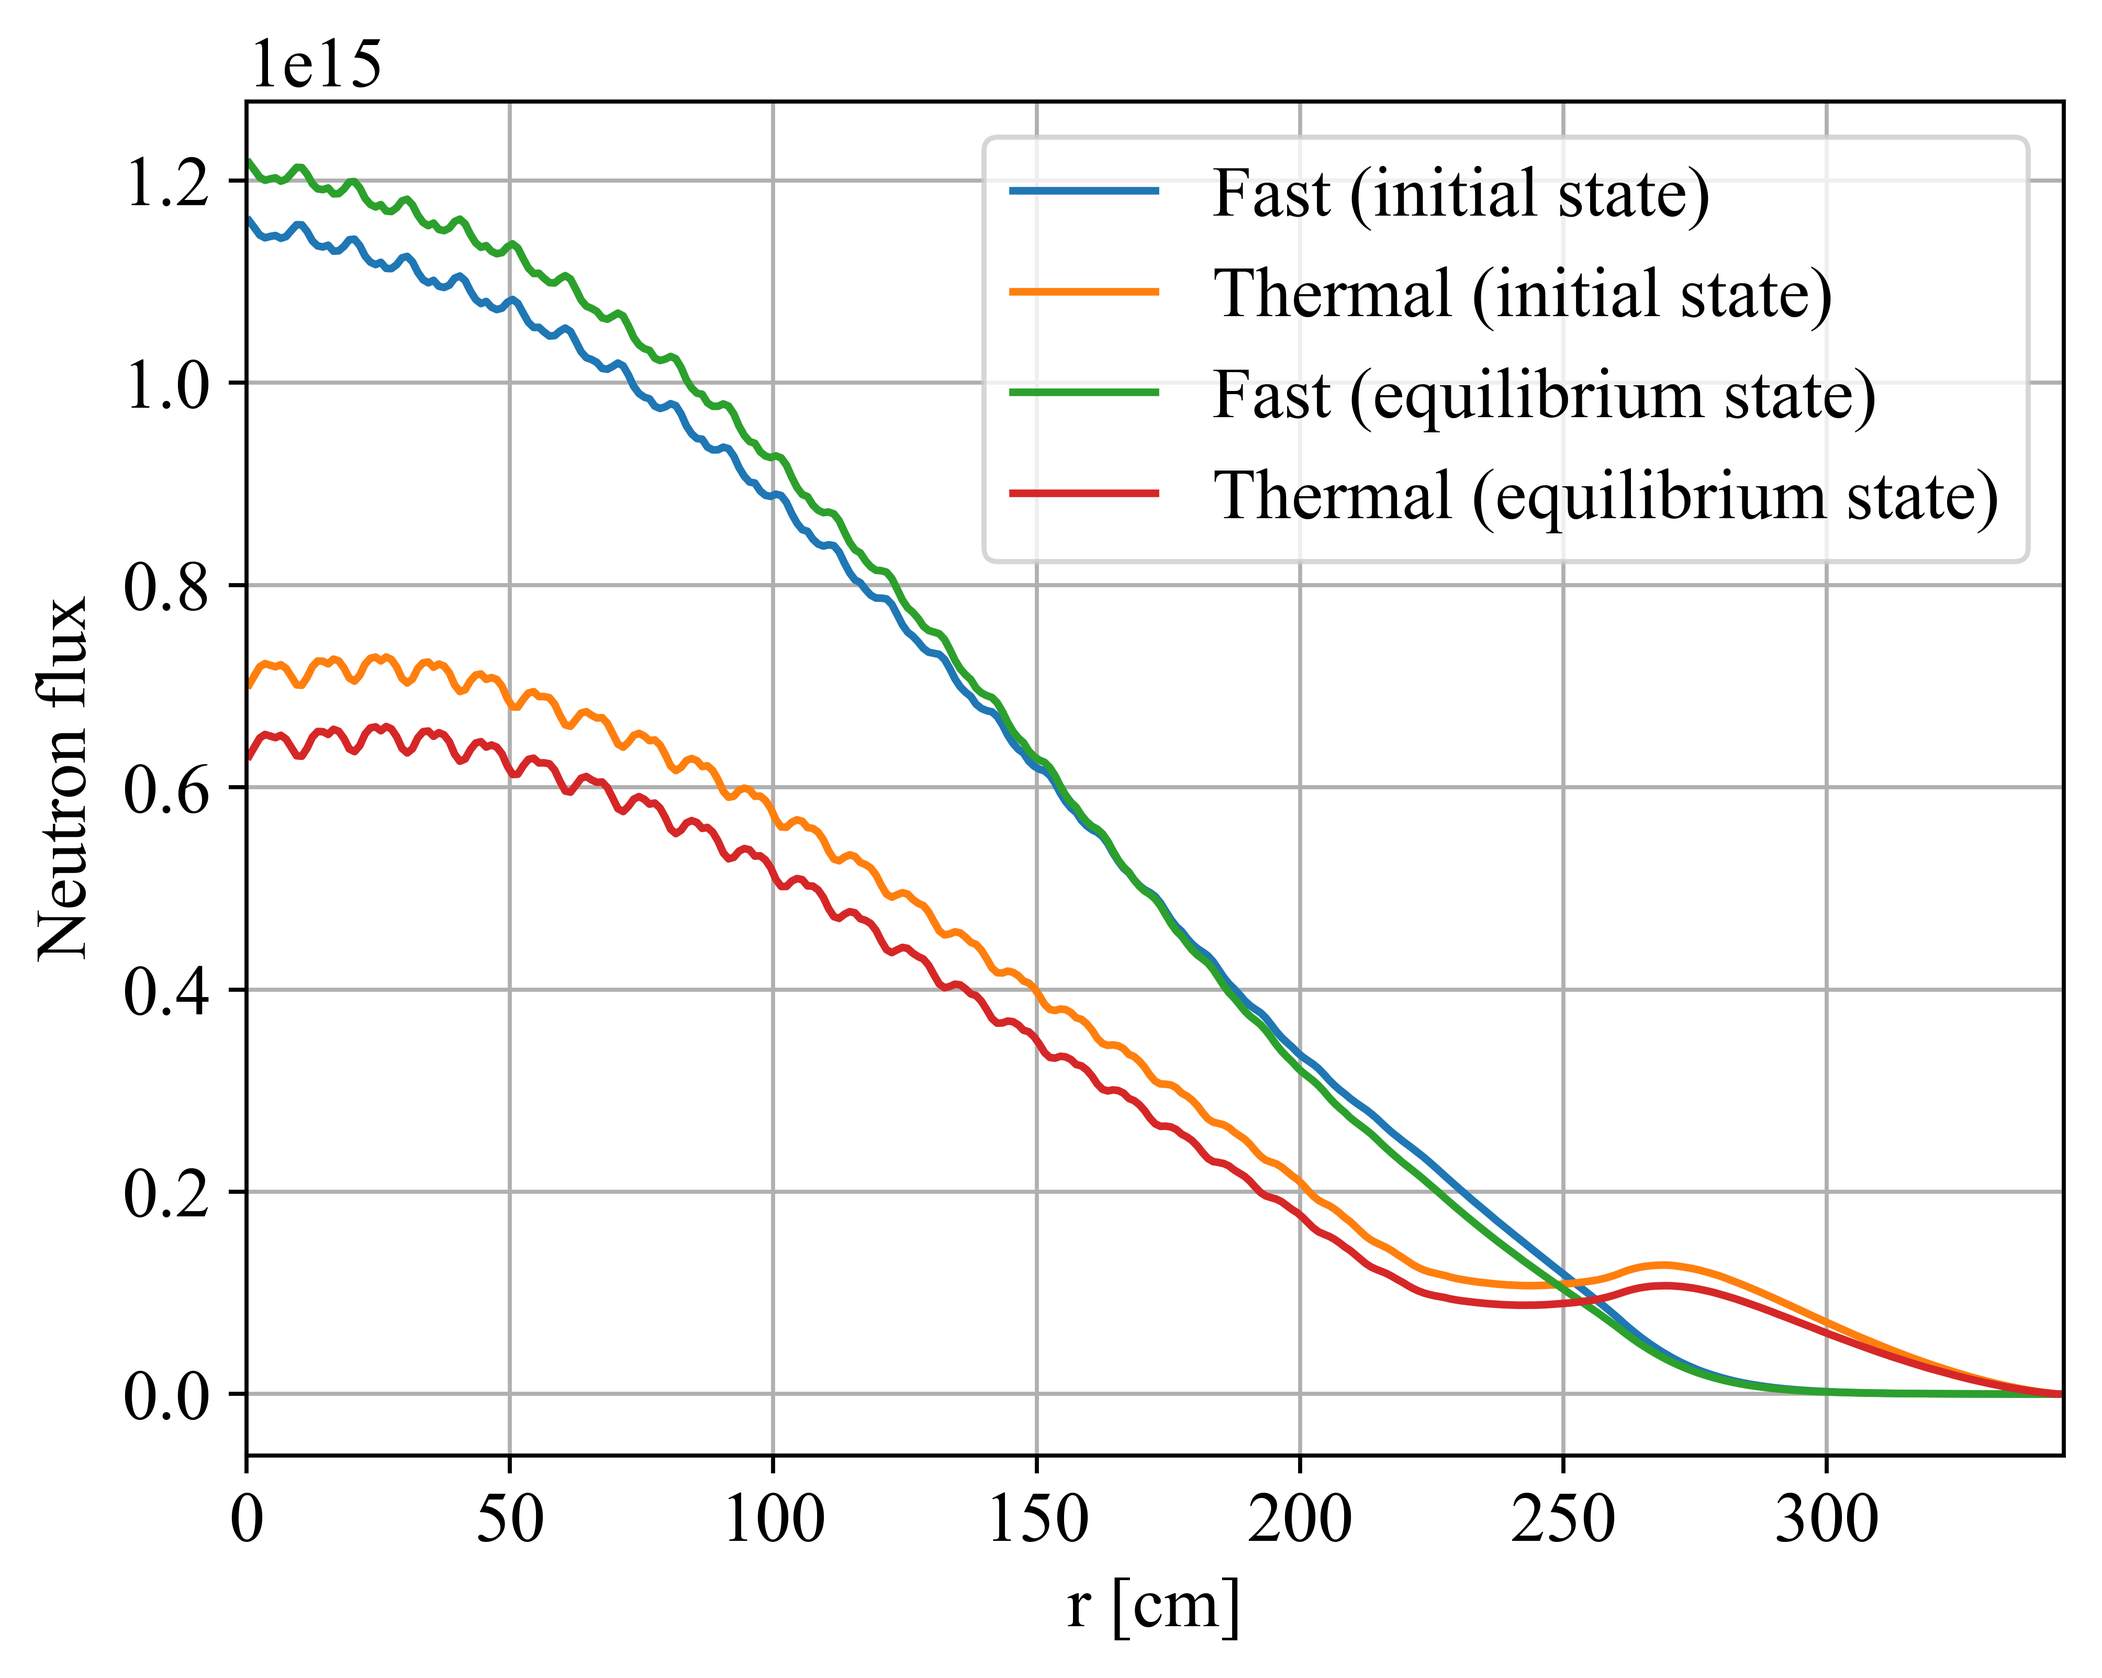
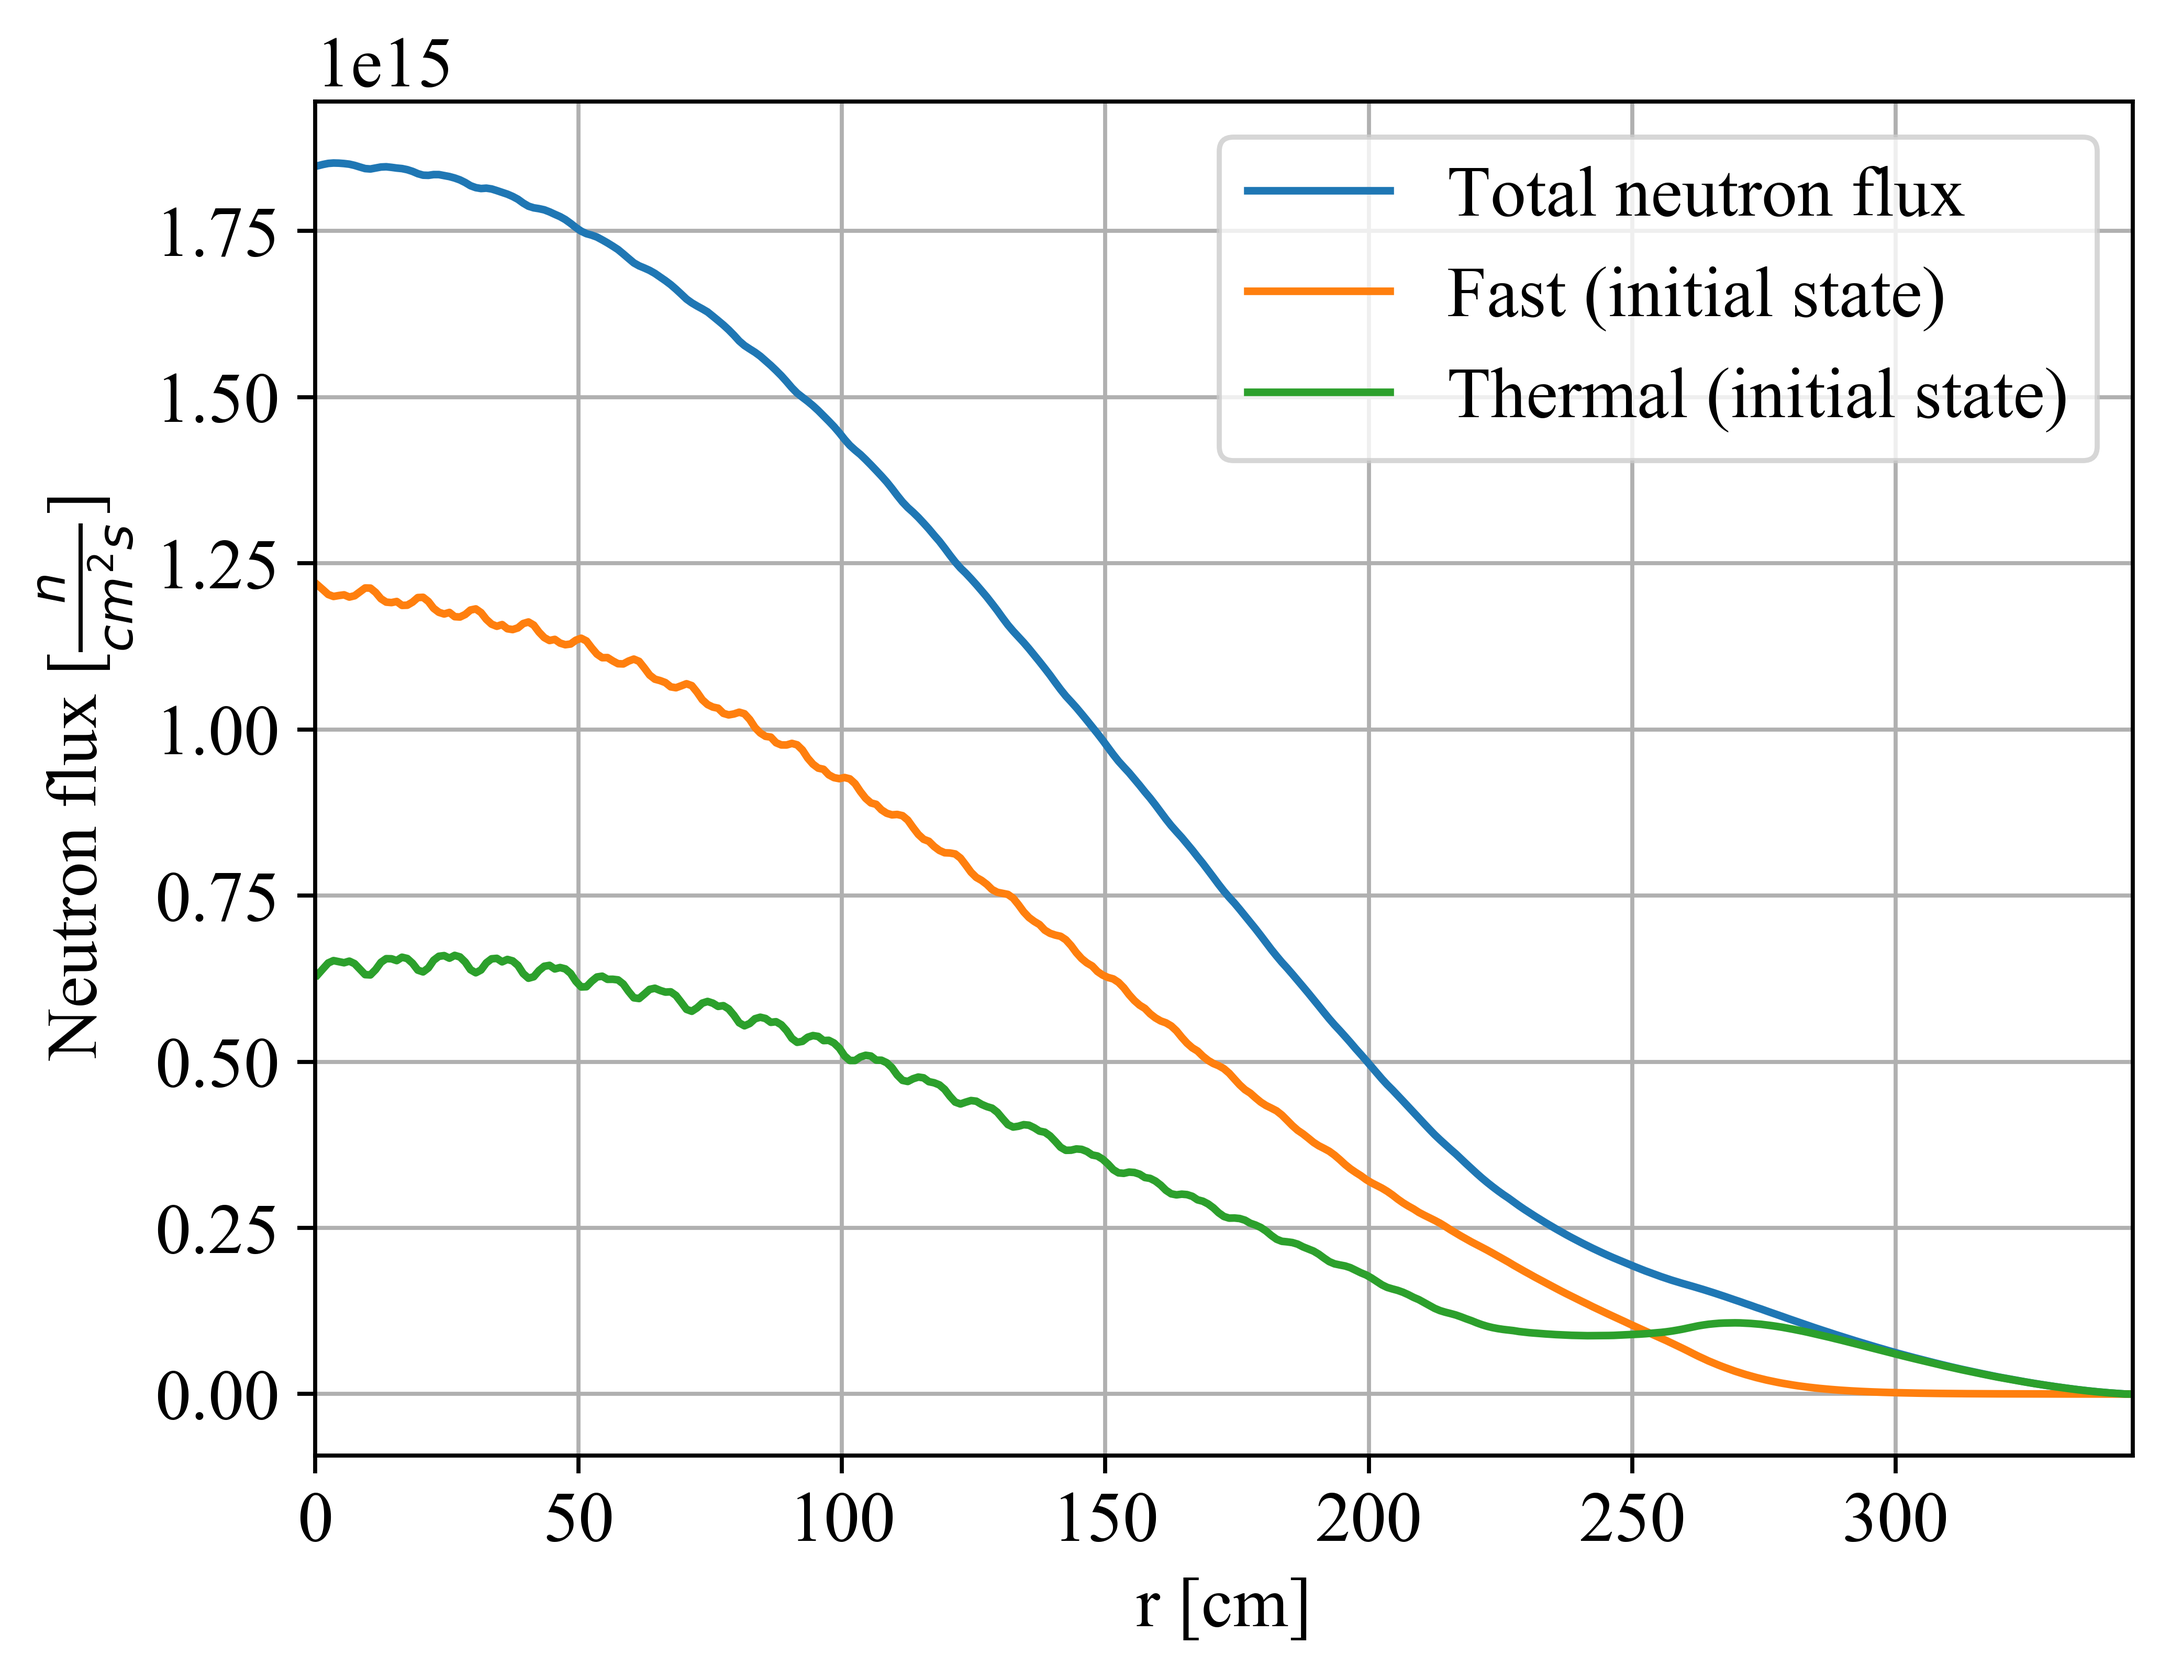
Reviewer #1 70% of comments implemented #32

diff --git a/revisions/review-responses.tex b/revisions/review-responses.tex
@@ -159,21 +159,24 @@ paper.
         \question  Abstract: Given the recent announcement about TransAtomic 
         Power, you may want to remove them from your list?
         \begin{solution}
-        Thank you for your kind review. Current manuscript was submitted before announcement that TransAtomic is ceasing operations. It is removed from the list of MSR startups.
+        		Thank you for your kind review. Current manuscript was submitted before 
+		        announcement that TransAtomic is ceasing operations. It is removed from 
+		        the list of MSR startups.
         \end{solution}
 
         %---------------------------------------------------------------------
         \question  Table 1, page 3: SCALE/TRITON is fast as well as thermal 
         reactor capable.  
         \begin{solution}
-        Thank you for the recommendation. In Table 1 ``thermal'' has been changed to ``thermal/fast''.
+		        Thank you for the recommendation. In Table 1 ``thermal'' has been changed 
+		        to ``thermal/fast''.
         \end{solution}
 
         %---------------------------------------------------------------------
         \question  Page 4, Line 48: Should read ``...and refill using a single 
         or multiple unit cell ....''
         \begin{solution}
-        That statement has been modified as requested.
+        		That statement has been modified as requested.
         \end{solution}
 
         %---------------------------------------------------------------------
@@ -184,9 +187,10 @@ paper.
         Conference on Mathematics \& Computational Methods Applied to Nuclear 
         Science and Engineering, Jeju, Korea, Apr. 16-20 (2017).)
         \begin{solution}
-        Thank you for the update. This sentence has been added:
+		        Thank you for the update. This sentence has been added:
         
-        The latest SCALE release will also have the same functionality using truly continuous removals \cite{betzler_implementation_2017}
+		        The latest SCALE release will also have the same functionality using 
+        		truly continuous removals \cite{betzler_implementation_2017}
         \end{solution}
 
         %---------------------------------------------------------------------
@@ -203,22 +207,22 @@ paper.
         hence not be able to produce the U233 that is necessary for this 
         breeding cycle to work.
         \begin{solution}
-        Thanks for catching this. Following passage has been added:
+        		Thanks for catching this. Following passage has been added:
         
-        Protactinium presents a challenge, since it has a large absorption cross 
-		section in the thermal energy spectrum. Moreover, $^{233}$Pa left in the core
-		 would produce $^{234}$Pa and $^{234}$U, which both are not useful as fuel, 
-		and smaller amount of $^{233}$Pa would decays into the fissile $^{233}$U.
-		Accordingly, $^{233}$Pa is continuously 
-		removed from the fuel salt into a protactinium decay tank to allow $^{233}$Pa 
-		to decay to $^{233}$U without negative impact on neutronics.
+		        Protactinium presents a challenge, since it has a large absorption cross 
+				section in the thermal energy spectrum. Moreover, $^{233}$Pa left in the core
+				 would produce $^{234}$Pa and $^{234}$U, which both are not useful as fuel, 
+				and smaller amount of $^{233}$Pa would decays into the fissile $^{233}$U.
+				Accordingly, $^{233}$Pa is continuously 
+				removed from the fuel salt into a protactinium decay tank to allow $^{233}$Pa 
+				to decay to $^{233}$U without negative impact on neutronics.
         \end{solution}
 
         %---------------------------------------------------------------------
         \question  Table 3: ``cycle time'' is not defined in the paper. Please 
         add.
         \begin{solution}
-        The ``cycle time'' definition has been added in a first appearance in text.
+		        The ``cycle time'' definition has been added in a first appearance in text.
         \end{solution}
 
         %---------------------------------------------------------------------
@@ -226,7 +230,7 @@ paper.
         Th fuel cycles in an MSR was first described and concluded by Powers et 
         al. Please add a reference to their initial work.
         \begin{solution}
-                <++>
+        		The reference to \cite{powers_new_2013} has been added.
         \end{solution}
 
         %---------------------------------------------------------------------
@@ -252,7 +256,21 @@ paper.
         \question  Page 18, line 327: Are those elements removed every 3435 
         days, or is it that the entire salt core is discharged?
         \begin{solution}
-                <++>
+		        100 \% of those elements atoms removed every 3435 days. Full salt discard
+		         as it mentioned in Table 3 has not been implemented. More detailed 
+		         explanation of this has been added:
+        
+		        Additionally, the presence of rubidium, strontium, cesium, and barium in
+		         the core are disadvantageous to reactor physics. In fact, SaltProc fully 
+		         removes all these elements every 3435 days (not a small mass fraction 
+		         every 3 days) which causes the multiplication factor to jump by 
+		        approximately 450 pcm, and limits using the batch approach for online 
+		        reprocessing simulations. In future versions of SaltProc this drawback 
+		        will be eliminated by removing elements with longer cycle times (seminoble 
+		        metals, volatile fluorides, Rb, Sr, Cs, Ba, Eu) using different approach. 
+		        Only mass fraction (calculated separately for each reprocessing group) 
+		        will be removed every depletion step (e.g. 3 days) instead of removing 
+		        100\% of element atoms after cycle time. 
         \end{solution}
 
         %---------------------------------------------------------------------
@@ -266,20 +284,29 @@ paper.
         \question  Page 20, Fig 9: What are the wiggles and dips , especially 
         seen for Np235?
         \begin{solution}
-                <++>
+		        Explanation of this phenomena has been added as follows:
+        
+		         Small dips in neptunium and plutonium number density every 16 years are 
+		         caused by removing $^{237}$Np, $^{242}$Pu (included in Processing group 
+		         ``Higher nuclides'', see Table~\ref{tab:reprocessing_list}) which decays
+        		  into $^{235}$Np, $^{239}$Pu, respectively. 
         \end{solution}
 
         %---------------------------------------------------------------------
         \question  Page 20, line 351: It is more than just the Pu isotopes that 
         makes the spectrum harder? What about the other MAs etc?
         \begin{solution}
-                <++>
+        		Thank you for the excellent point. The corrected sentence reads thus: 
+        
+		        The neutron energy spectrum at equilibrium is harder than at startup due
+		         to plutonium and other strong absorbers accumulation in the core during 
+		         reactor operation.  
         \end{solution}
 
         %---------------------------------------------------------------------
         \question  Fig 12: units on y-axis?
         \begin{solution}
-                <++>
+                Thanks for catching this. Units $\frac{n}{cm^2 s}$ has been added.
         \end{solution}
 
         %---------------------------------------------------------------------

diff --git a/results.tex b/results.tex
@@ -45,9 +45,14 @@ poisons (e.g. Xe, Kr) are removed, while fresh fissile material ($^{233}$U)
 from the protactinium decay tank is added.  
 
 Additionally, the presence of rubidium, strontium, cesium, and barium in the 
-core are disadvantageous to reactor physics. In fact, the removal of these elements 
-every 3435 days causes the multiplication factor to jump by approximately 450 
+core are disadvantageous to reactor physics. In fact, SaltProc fully removes all these elements every 3435 days (not a small mass fraction every 3 days) 
+which causes the multiplication factor to jump by approximately 450 
 pcm, and limits using the batch approach for online reprocessing simulations. 
+In future versions of SaltProc this drawback will be eliminated by removing 
+elements with longer cycle times (seminoble metals, volatile fluorides, Rb, Sr,
+ Cs, Ba, Eu) using different approach. Only mass fraction (calculated 
+ separately for each reprocessing group) will be removed every depletion step 
+ (e.g. 3 days) instead of removing 100\% of element atoms after cycle time.
 Overall, the effective multiplication factor gradually decreases from 1.075 to 
 $\approx$1.02 at equilibrium after approximately 6 years of irradiation. 
 
@@ -74,7 +79,11 @@ isotopes in the core. In the end of the considered operational time, the core
 contained significant $^{235}$U ($\approx10^{-5}$ atom/b-cm), $^{239}$Pu 
 ($\approx5\times10^{-7}$ atom/b-cm), and $^{241}$Pu ($\approx 5\times10^{-7}$ 
 atom/b-cm). Meanwhile, the equilibrium number density of the target fissile 
-isotope $^{233}$U was approximately 7.97$\times10^{-5}$ atom/b-cm. Thus, 
+isotope $^{233}$U was approximately 7.97$\times10^{-5}$ atom/b-cm. Small dips 
+in neptunium and plutonium number density every 16 years are caused by removing
+$^{237}$Np, $^{242}$Pu (included in Processing group ``Higher nuclides'', see
+ Table~\ref{tab:reprocessing_list}) which decays into $^{235}$Np, $^{239}$Pu, 
+ respectively. Thus, 
 production of new fissile materials in the core, as well as $^{233}$U breeding, 
 made it possible to compensate for negative effects of strong absorber 
 accumulation and keep the reactor critical.
@@ -90,8 +99,8 @@ accumulation and keep the reactor critical.
 Figure~\ref{fig:spectrum} shows the normalized neutron flux spectrum for the 
 full-core \gls{MSBR} model in the energy range from $10^{-8}$ to $10$ MeV. The 
 neutron energy spectrum at equilibrium is harder than at startup due to 
-$^{238}$Pu, $^{239}$Pu, $^{240}$Pu, $^{241}$Pu, and $^{242}$Pu accumulation in 
-the core during reactor operation.  
+plutonium and other strong absorbers accumulation in the core during reactor 
+operation.  
 \begin{figure}[ht!] % replace 't' with 'b'         to force it to 
   \centering
   \includegraphics[width=\textwidth]{spectrum.png} \caption{Neutron flux energy 

diff --git a/methods.tex b/methods.tex
@@ -235,8 +235,9 @@ separations \cite{robertson_conceptual_1971}.
                 Nb, Mo, Tc, Ru, Rh, Pd, Ag, Sb, Te & 20 sec \\
         Seminoble metals & Zr, Cd, In, Sn & 200 days \\
         Gases & Kr, Xe & 20 sec \\ Volatile fluorides & Br, I & 60 days \\
-        Discard & Rb, Sr, Cs, Ba & 3435 days \\ Salt discard & Th, Li, Be, F & 
-                3435 days \\ Protactinium & $^{233}$Pa & 3 days \\ Higher 
+        Discard & Rb, Sr, Cs, Ba & 3435 days \\ 
+        %Salt discard & Th, Li, Be, F & 3435 days \\ 
+        Protactinium & $^{233}$Pa & 3 days \\ Higher 
                 nuclides & $^{237}$Np, $^{242}$Pu & 16 years \\  \hline
         \end{tabularx}
         \label{tab:reprocessing_list}
@@ -247,7 +248,7 @@ are very short, an enormous number of depletion steps are required to obtain
 the equilibrium composition. On the other hand, if the depletion  calculation 
 time interval is too long, the impact of short-lived fission products is not 
 captured. To compromise, the time interval for depletion calculations in this 
-model was selected as 3 days to correlate with the removal interval of 
+model was selected as 3 days\footnote{ Optimal depletion time step of 3 days for \gls{MSR} batch-wise depletion simulation was first described and concluded by Powers \emph{et al.} \cite{powers_new_2013}.} to correlate with the removal interval of 
 $^{233}$Pa and $^{232}$Th was continuously added to maintain the initial mass 
 fraction of $^{232}$Th.
 
@@ -268,7 +269,7 @@ with the Monte Carlo SERPENT 2
 software to simulate online reprocessing for irregular full-core 
 geometry with high fidelity.  The primary function of SaltProc is to 
 manage material streams while SERPENT 2 performs the neutron 
-transport and depletioncalculations. Saltproc is defined as a python class, where 
+transport and depletion calculations. Saltproc is defined as a python class, where 
 each material stream is defined as a isotopic atomic density
 vector variable. This allows tracking of time-sensitive material streams such 
 as the 	$^{233}$Pa tank in the \gls{MSBR}. The user can define the reprocessing 
